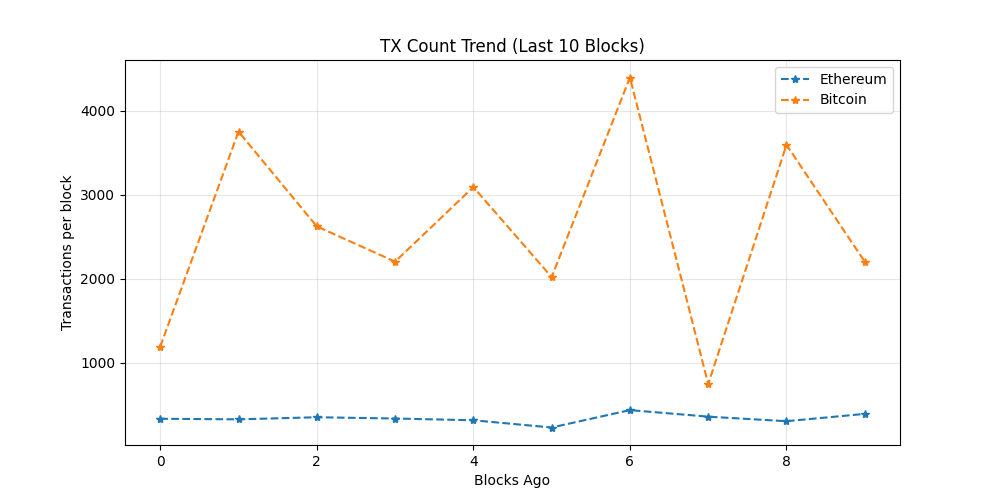
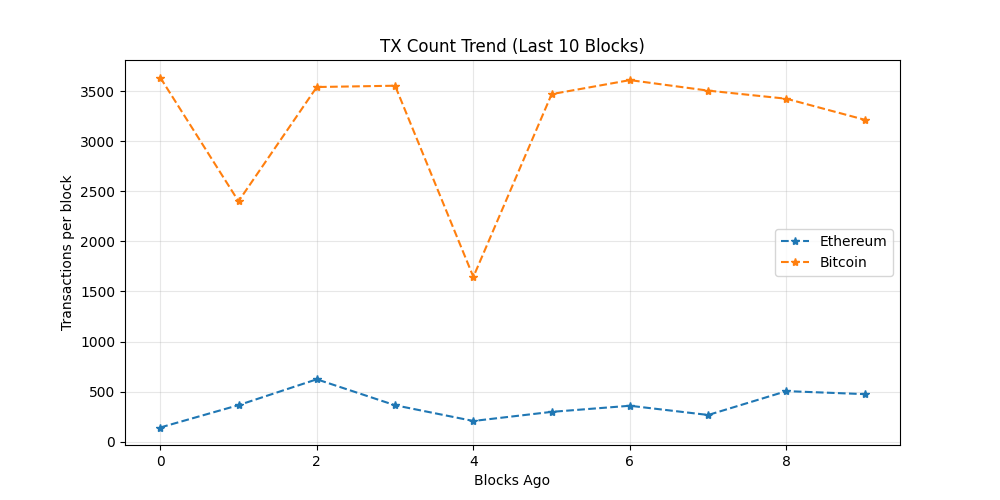
chore: update on-chain dashboard

diff --git a/README.md b/README.md
@@ -19,7 +19,7 @@ The README itself acts as the dashboard and is regenerated automatically on a 6 
 demonstrating a production-style, infrastructure-focused observability workflow rather
 than a traditional UI-driven approach.
 
-_Last updated: 2026-01-14 13:09 UTC_
+_Last updated: 2026-01-14 18:51 UTC_
 
 ## API Usage (GetBlock.io)
 - Calls used: **24**
@@ -27,8 +27,8 @@ _Last updated: 2026-01-14 13:09 UTC_
 ## Network Metrics
 | Chain | Block Height | TX Count | TPS (10 blk avg) | Block Util | Avg Fee |
 |------|-------------|----------|------------------|------------|---------|
-| Ethereum | 24233140 | 393 | 32.75 | 68.62% | 0.1 Gwei |
-| Bitcoin | 932246 | 2204 | 62.97 | 99.89% | N/A |
+| Ethereum | 24234846 | 475 | 39.58 | 62.91% | 0.2 Gwei |
+| Bitcoin | 932280 | 3213 | 4.41 | 92.93% | N/A |
 
 ## Visuals
 ### Transactions Trend
@@ -43,10 +43,11 @@ _Last updated: 2026-01-14 13:09 UTC_
 ## Whale Alerts (latest block)
 - Transaction hashes are truncated for readability.
 - Full hashes are available in `dashboards/metrics.json`
-- Bitcoin | 124.2 BTC | `f356324c0199…`
-- Bitcoin | 130.0 BTC | `b41bbbc70726…`
-- Bitcoin | 106.81 BTC | `75c74b00ecee…`
-- Bitcoin | 122.24 BTC | `36b3ce961446…`
+- Bitcoin | 132.57 BTC | `2f8e07ac9cf9…`
+- Bitcoin | 102.77 BTC | `f4214135aac9…`
+- Bitcoin | 117.63 BTC | `c7d0d45cc50c…`
+- Bitcoin | 117.59 BTC | `2b7a2cc25042…`
+- Bitcoin | 117.59 BTC | `2ed0111d5509…`
 
 ## Run locally
 
